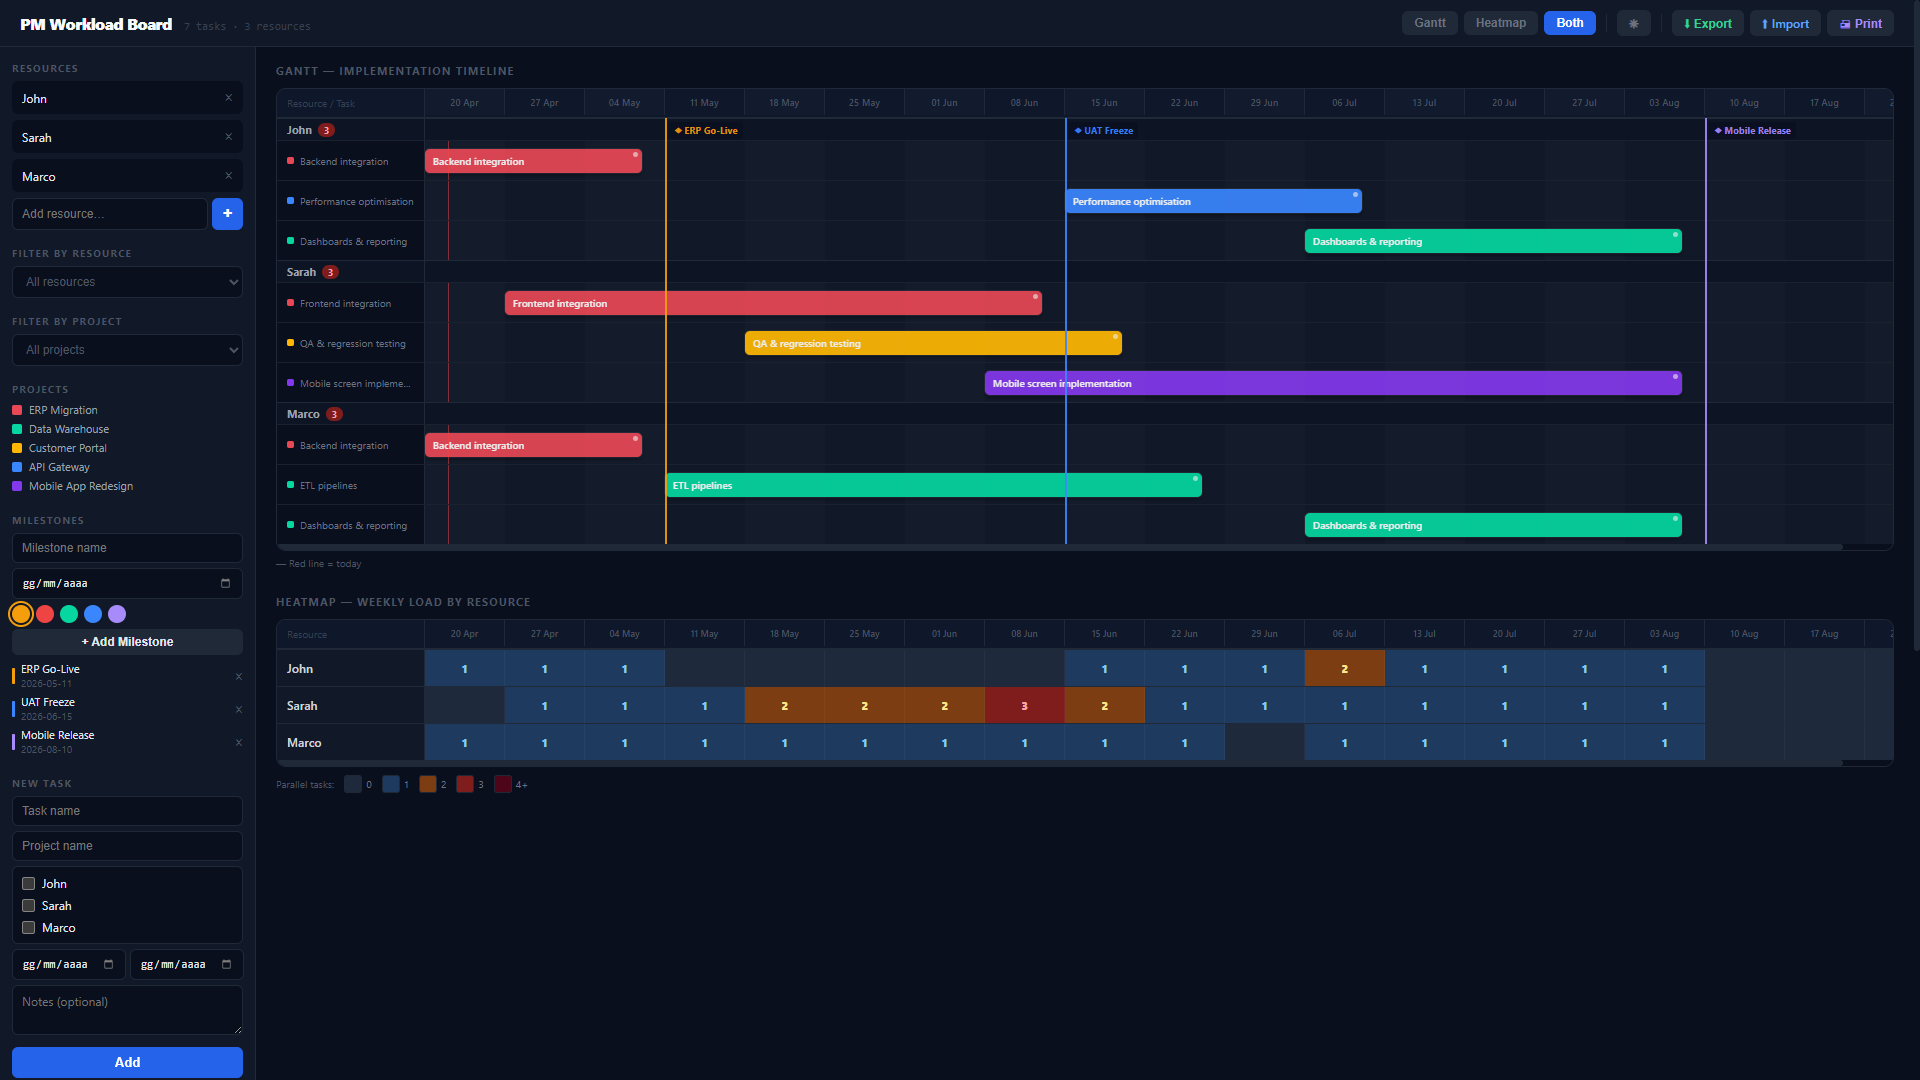
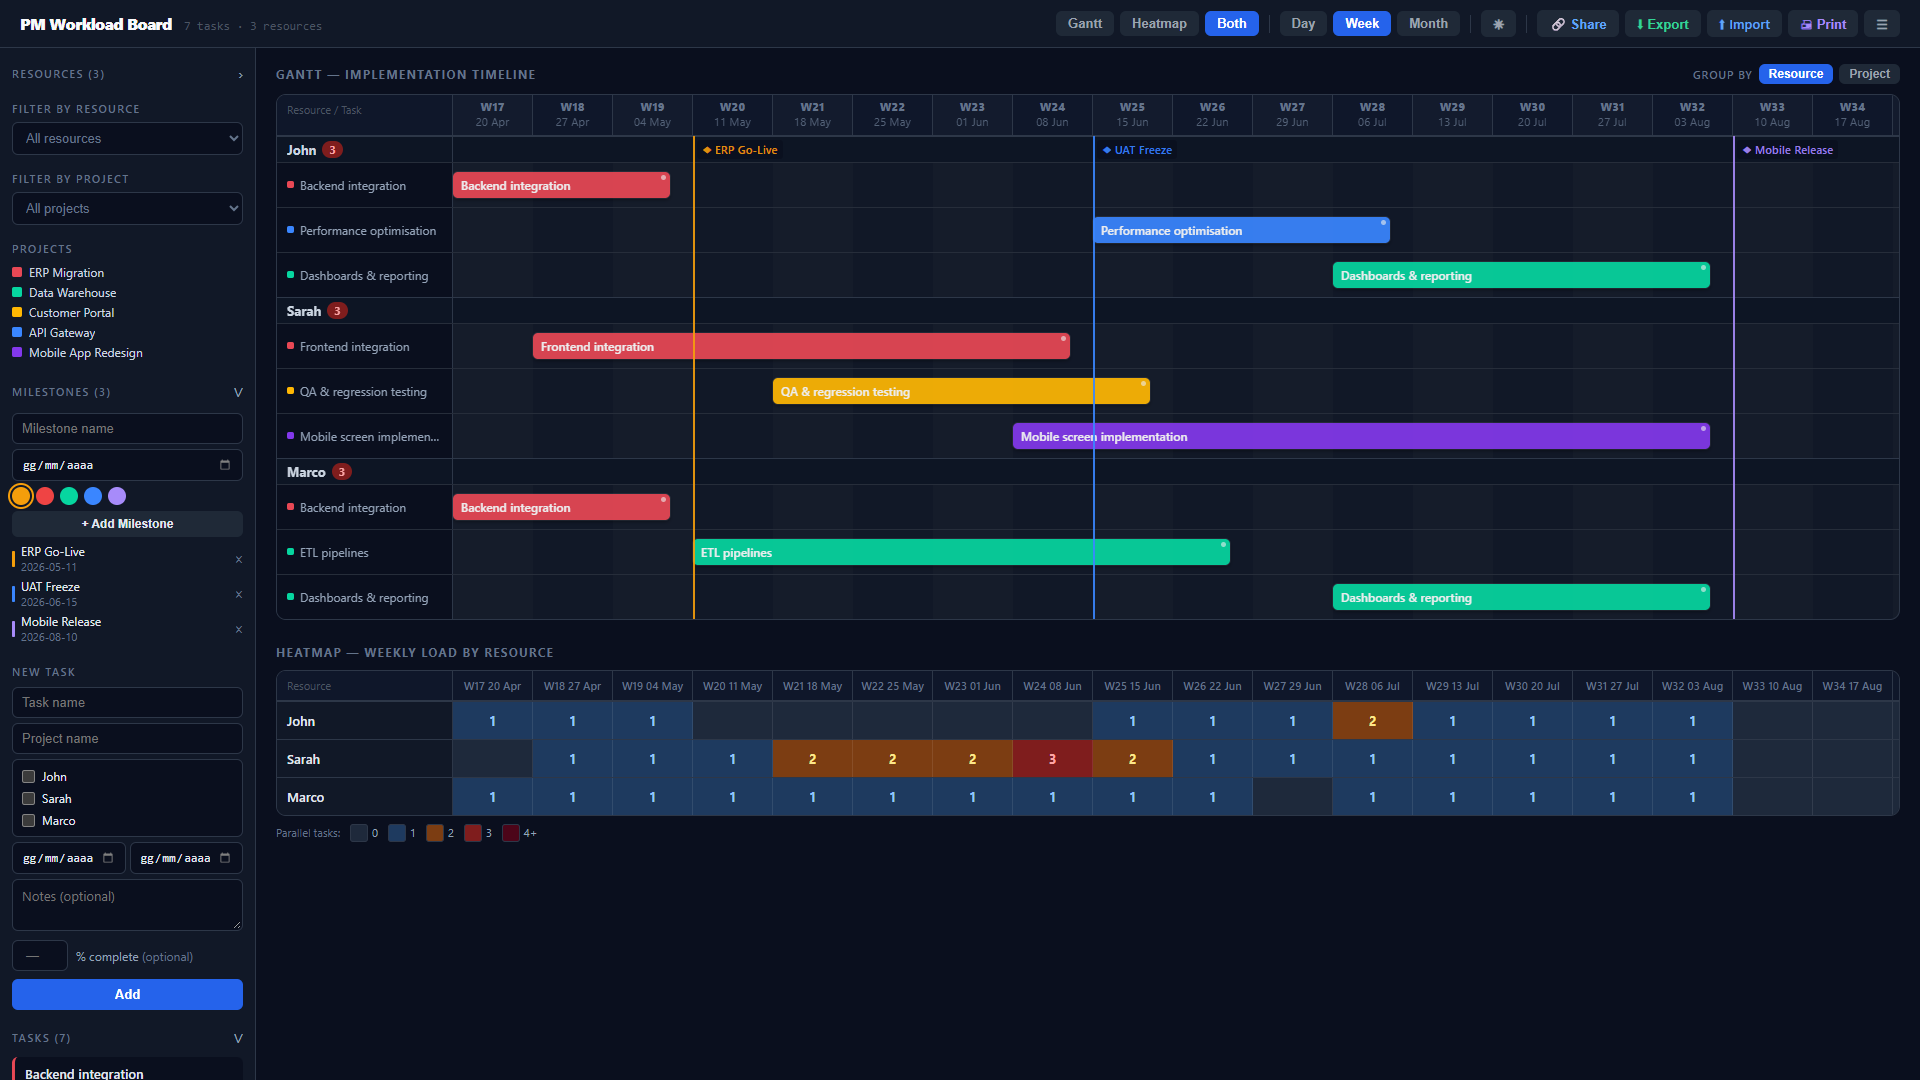
Refresh README and preview for v1.0
Badges, Share link and Clear board rows in features table, typography
entry in shipped list, drop shipped share-link item from backlog.
New preview.png with current type scale; ignore .claude/.

diff --git a/README.md b/README.md
@@ -1,5 +1,10 @@
 # ◈ PM WORKLOAD BOARD
 
+[![Live demo](https://img.shields.io/badge/demo-live-2563EB)](https://danilomagro.github.io/gantt-heatmap/pm-workload-board.html)
+[![License: MIT](https://img.shields.io/badge/license-MIT-06D6A0)](LICENSE)
+![No build step](https://img.shields.io/badge/build-none%20needed-FFB703)
+[![Built with Claude Code](https://img.shields.io/badge/built%20with-Claude%20Code-D97757)](https://claude.com/claude-code)
+
 > *"If the team looks slow, show them the bars. If they still don't believe you, show them the heatmap."*
 
 **[→ Open live version](https://danilomagro.github.io/gantt-heatmap/pm-workload-board.html)**
@@ -33,6 +38,8 @@ The heatmap is never filled in manually. Red means red because the bars say so.
 | **Completion %** | Optional progress field per task — thin strip below the Gantt bar, high-contrast colour |
 | **Drag & drop rescheduling** | Drag bars left/right to shift task dates; click without moving still opens edit |
 | **Light / Dark theme** | Toggle between themes, preference saved in localStorage |
+| **Share link** | Encode the whole board in a URL — recipients open it without touching their own data (changes aren't saved) and can import it into their board with one click |
+| **Clear board** | Wipe all data in one step (with confirmation) to start fresh |
 | **Export / Import JSON** | Full data portability — sync between devices or share snapshots with your team |
 | **Print / PDF export** | Browser print dialog, landscape layout, sidebar hidden, colours preserved |
 | **Synchronized horizontal scroll** | Both views scroll in sync when tasks span many weeks; resource column stays fixed |
@@ -97,6 +104,8 @@ The implementation was handled entirely by **[Claude Code](https://claude.ai)** 
 - [x] Gantt bar tooltip — enriched with duration and completion %
 - [x] Sample data button — inline in empty state, confirmation dialog if data exists
 - [x] Keyboard shortcuts — Enter to submit, Esc to cancel
+- [x] Typography pass — minimum 11px text, 12–13px primary labels (Fluent 2 / Material 3 scale), taller Gantt bars; much sharper on 1080p monitors
+- [x] Share link — board encoded in URL, opens as a non-saving preview with "Import to my board"
 - [x] Gantt grouping toggle — group by resource or by project (people involved per project, unassigned tasks shown separately)
 - [x] Day / Week / Month granularity toggle — switch timeline zoom; ISO week numbers (W19, W20…) in week view; weekend columns dimmed in day view; preference saved in localStorage
 
@@ -104,7 +113,6 @@ The implementation was handled entirely by **[Claude Code](https://claude.ai)** 
 
 | Priority | Item |
 |---|---|
-| Medium | Read-only share link — encode board as URL fragment, open in view-only mode |
 | Medium | Print layout optimisation for large datasets — auto-scale or date range selector |
 
 ---
